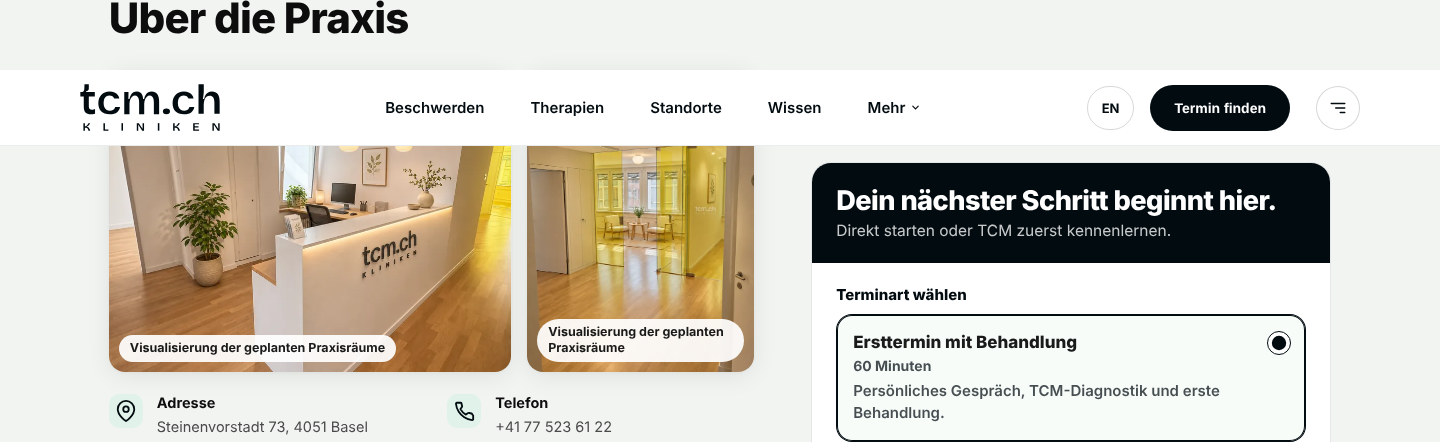
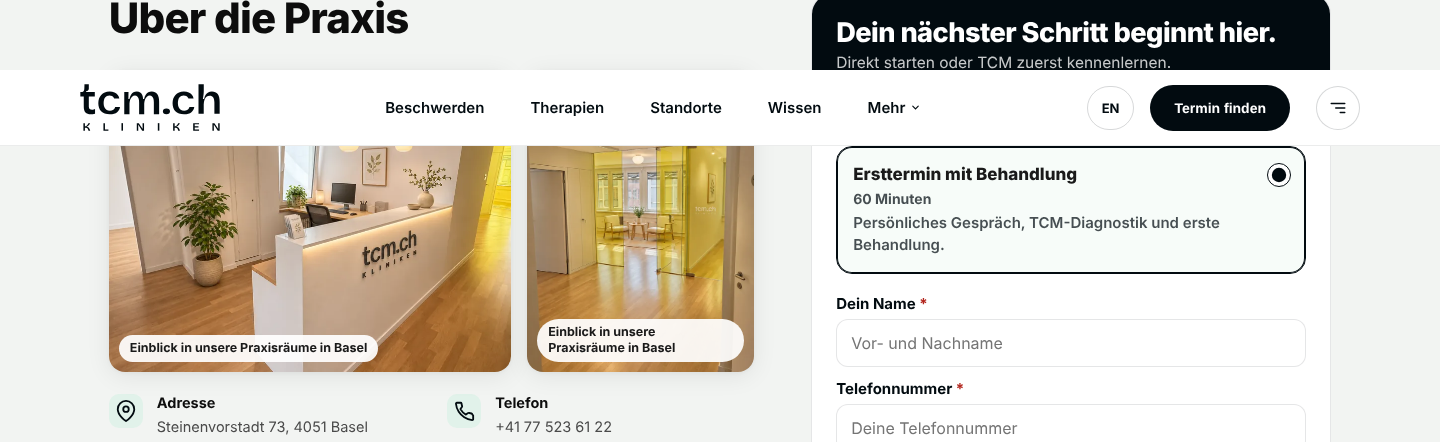
feat(basel): Praxisfotos statt Visualisierung, Beschwerden-Boxen wie St. Gallen
- Basel-Praxisbilder sind Fotos der Praxisräume: Beschriftung «Einblick in unsere Praxisräume in Basel»,
  Alt-Texte/Kommentar ohne «Visualisierung/Symbolbild/geplant», Dateien basel-empfang(-800)/basel-lounge(-600)
  (Inhalt bytegleich, keine EXIF/XMP). Layout unverändert.
- Gemeinsame Liste NETZ_BESCHWERDEN (standorte.ts) für St. Gallen und Basel: Basel zeigt dieselben 8 Boxen
  in derselben Reihenfolge wie SG (bisher 6, ohne Schlaf/Verdauung/Zyklus, mit Ischias). SG-Ausgabe unverändert.
- EN Basel bildet die Liste auf freigegebene EN-Condition-Seiten ab (8 statt 6 + Ischias-DE); geprüft,
  nur Fingerprint location:basel aktualisiert.
- test-basel-bilder: neue Beschriftung, Alt-Text-Verbotsliste, Box-Gleichheit Basel = SG (31/0); Screenshots neu.

Claude-Session: https://claude.ai/code/session_018HsU8LEZeeSWcRbzDLhbQg

diff --git a/src/data/standorte.ts b/src/data/standorte.ts
@@ -85,6 +85,9 @@ export const NETZ_THERAPIEN = ['akupunktur', 'gesichtsakupunktur', 'schroepfen',
 /** Zürich Bahnhofstrasse und Oerlikon (Inhaberangabe 02.11.2026): gleiches 8er-Raster wie SG inkl. Physiotherapie-Karte
  *  (TCM.ch-Angebot), aber ohne Massage-Karte (nicht bestätigt); Kräutertherapie hinter «Weitere Therapien». */
 export const ZH_THERAPIEN_OHNE_MASSAGE = NETZ_THERAPIEN.filter((t) => t !== 'massage');
+/** Beschwerden-Boxen «Wobei können wir helfen?» der SG-Vorlage (Reihenfolge = Darstellung). Gemeinsame Quelle für
+ *  St. Gallen ([slug].astro) und Basel, damit beide nicht auseinanderlaufen (05.11.2026). */
+export const NETZ_BESCHWERDEN = ['rueckenschmerzen', 'nackenschmerzen', 'migraene', 'schlafprobleme', 'stress-burnout', 'verdauungsprobleme', 'zyklusbeschwerden', 'kinderwunsch'];
 
 // ── TCM.ch Zürich Bahnhofstrasse: zwei Fassungen, Umschaltung allein über clinic.vorVertrag (src/data/locations.ts). ──
 // Seit 02.11.2026 live (Mietvertrag bestätigt): NACH_VERTRAG wird gerendert. VOR_VERTRAG bleibt als Mechanismus bestehen.
@@ -218,7 +221,7 @@ export const standorte: Record<string, Standort> = {
     anfahrt: { oev: '', autoParken: '' },
     therapien: ['akupunktur', 'gesichtsakupunktur', 'schroepfen', 'tuina', 'kraeutertherapie', 'akupressur', 'shiatsu', 'gua-sha'],
     beschwerdenIntro: 'Häufige Anliegen, mit denen du in Basel anfragen kannst. Auf den einzelnen Seiten steht, wie wir vorgehen, wie viele Sitzungen realistisch sind und wo die Grenzen der TCM liegen.',
-    beschwerden: ['rueckenschmerzen', 'nackenschmerzen', 'migraene', 'stress-burnout', 'kinderwunsch', 'ischias'],
+    beschwerden: NETZ_BESCHWERDEN, // gleiche Boxen wie St. Gallen
     team: [],
     teamTitel: 'Standortleitung Basel',
     teamIntro: 'Janine Trebes ist als Standortleiterin für Basel vorgesehen. Ihr Profil und ihren öffentlichen Registereintrag findest du auf der Profilseite.',
@@ -232,10 +235,10 @@ export const standorte: Record<string, Standort> = {
       { q: 'Welche Beschwerden behandelt ihr in Basel am häufigsten?', a: 'Rücken- und Nackenschmerzen, Ischias, Migräne, Schlafprobleme, Stress und Kinderwunsch-Begleitung. Was die TCM dabei realistisch leisten kann und wo ihre Grenzen liegen, steht auf den einzelnen Beschwerdeseiten; beim Erstgespräch sagen wir dir ehrlich, ob eine Behandlung in deinem Fall sinnvoll ist.' },
       { q: 'Behandelt ihr auch Grenzgänger aus Deutschland und Frankreich?', a: 'Ja. Entscheidend ist nicht dein Wohnort, sondern deine Versicherung. Wer in der Schweiz arbeitet und hier grundversichert ist, kann eine Schweizer Zusatzversicherung für Komplementärmedizin abschliessen und darüber abrechnen. Bist du dagegen in Deutschland oder Frankreich versichert, zahlst du bei uns selbst und reichst die Rechnung bei deiner Kasse ein. Ob die etwas übernimmt, hängt von deinem Tarif ab. Schick uns vorher deine Angaben, dann sagen wir dir, was auf dich zukommt.' },
     ],
-    // Visualisierungen der geplanten Basler Praxisräume (Inhaber-Upload 05.11.2026) – keine Fotos, Beschriftung sichtbar.
+    // Fotos der Basler Praxisräume (Inhaber, 05.11.2026): Empfang (quer) und Lounge (hoch).
     praxisBilder: [
-      { src: '/images/basel-empfang-visualisierung.webp', srcset: '/images/basel-empfang-visualisierung-800.webp 800w, /images/basel-empfang-visualisierung.webp 1448w', width: 1448, height: 1086, ratio: '4/3', alt: 'Visualisierung: Empfangstheke mit TCM.ch-Logo in den geplanten Basler Praxisräumen', label: 'Visualisierung der geplanten Praxisräume' },
-      { src: '/images/basel-lounge-visualisierung.webp', srcset: '/images/basel-lounge-visualisierung-600.webp 600w, /images/basel-lounge-visualisierung.webp 941w', width: 941, height: 1672, ratio: '3/4', pos: 'center 42%', alt: 'Visualisierung: ruhige Lounge mit Glaswand und Sitzgruppe in den geplanten Basler Praxisräumen', label: 'Visualisierung der geplanten Praxisräume' },
+      { src: '/images/basel-empfang.webp', srcset: '/images/basel-empfang-800.webp 800w, /images/basel-empfang.webp 1448w', width: 1448, height: 1086, ratio: '4/3', alt: 'Empfangstheke mit TCM.ch-Logo in unserer Praxis in Basel', label: 'Einblick in unsere Praxisräume in Basel' },
+      { src: '/images/basel-lounge.webp', srcset: '/images/basel-lounge-600.webp 600w, /images/basel-lounge.webp 941w', width: 941, height: 1672, ratio: '3/4', pos: 'center 42%', alt: 'Ruhige Lounge mit Glaswand und Sitzgruppe in unserer Praxis in Basel', label: 'Einblick in unsere Praxisräume in Basel' },
     ],
     wissenLink: { href: '/wissen/tcm-basel-erfahrungen-ablauf/', label: 'Erfahrungen & Ablauf', sub: 'Wie eine TCM-Behandlung in Basel abläuft, was sie kostet und was die Studien hergeben.' },
     massageLink: { href: '/massage-basel/', text: 'Geht es dir vor allem um Verspannungen und nicht um eine ganze Behandlungsserie? Angebot, Dauer und Preise stehen auf der Seite', anchor: 'Massage in Basel' },
